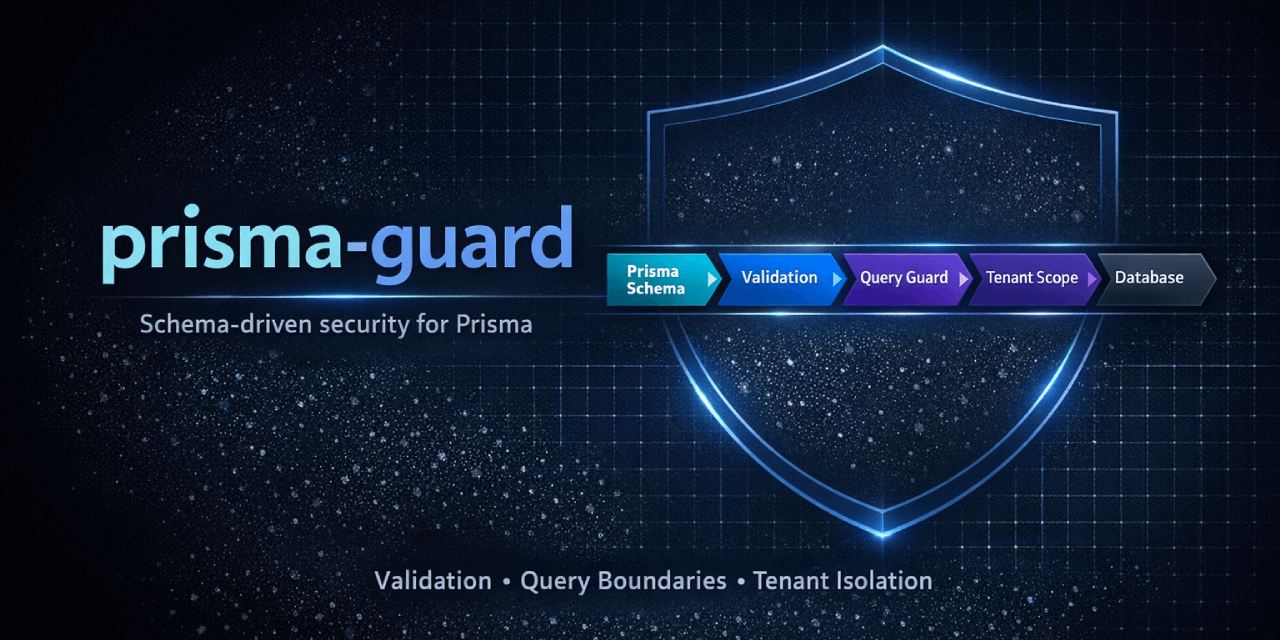
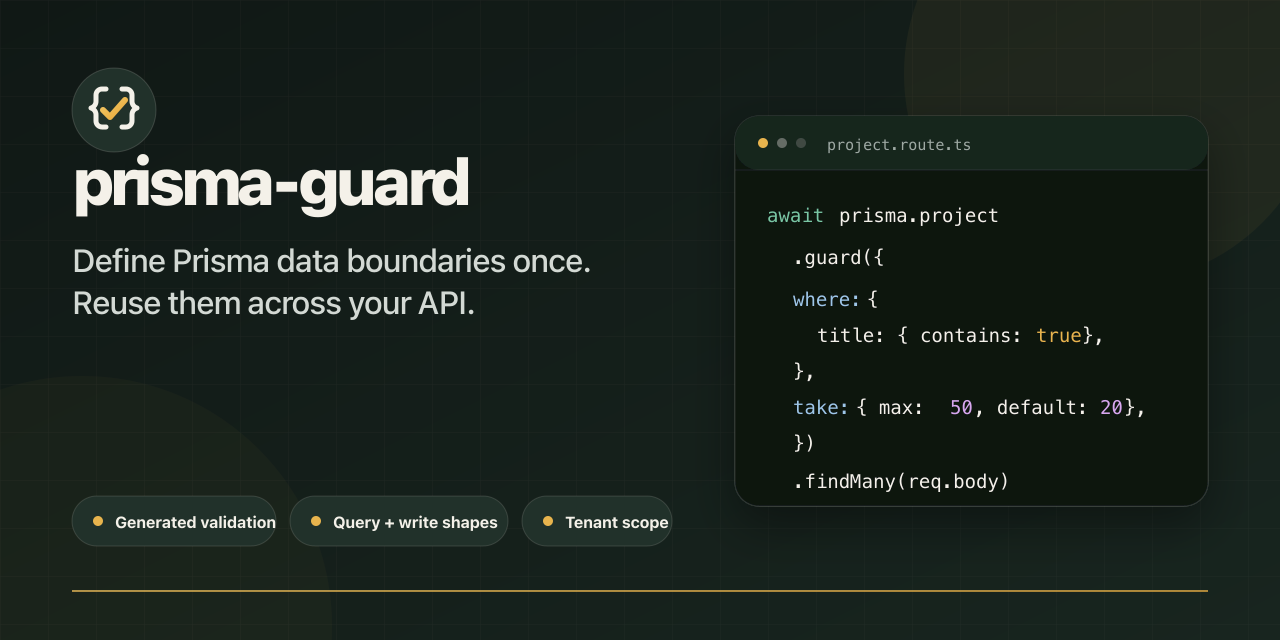
docs: polish repository branding

diff --git a/README.md b/README.md
@@ -1,31 +1,35 @@
-# prisma-guard
+<p align="center">
+  <img src="./docs/assets/prisma-guard-mark.svg" width="104" height="104" alt="prisma-guard data boundary mark">
+</p>
 
-**Schema-driven security layer for Prisma**
-Generate input validation, query shape enforcement, and tenant isolation directly from your Prisma schema.
+<h1 align="center">prisma-guard</h1>
 
-[![npm version](https://img.shields.io/npm/v/prisma-guard)](https://www.npmjs.com/package/prisma-guard)
-[![license](https://img.shields.io/npm/l/prisma-guard)](./LICENSE)
-[![node](https://img.shields.io/node/v/prisma-guard)](./package.json)
-[![prisma](https://img.shields.io/badge/Prisma-6%20%7C%207-2D3748)](https://www.prisma.io/)
-[![zod](https://img.shields.io/badge/Zod-v4-3E67B1)](https://zod.dev/)
-[![codecov](https://codecov.io/gh/multipliedtwice/prisma-guard/graph/badge.svg?token=X3Y0CSLTCM)](https://codecov.io/gh/multipliedtwice/prisma-guard)
+<p align="center"><strong>Define Prisma data boundaries once. Reuse them across your API.</strong></p>
 
-`prisma-guard` helps prevent three common classes of backend mistakes:
+<p align="center">
+  Generated input validation and explicit query shapes keep allowed fields, response projection, and tenant scope in the Prisma call chain.
+</p>
 
-* **invalid input** reaching Prisma
-* **unsafe or overly broad query shapes**
-* **missing tenant filters** in multi-tenant systems
-```text
-client request
-      ↓
-.guard(shape)
-      ↓
-validated input + allowed query shape
-      ↓
-tenant scoped query
-      ↓
-database
-```
+<p align="center">
+  <a href="https://www.npmjs.com/package/prisma-guard"><img src="https://img.shields.io/npm/v/prisma-guard?logo=npm&amp;label=npm" alt="npm version"></a>
+  <a href="https://www.npmjs.com/package/prisma-guard"><img src="https://img.shields.io/npm/dm/prisma-guard?logo=npm&amp;label=downloads" alt="npm downloads"></a>
+  <a href="https://github.com/multipliedtwice/prisma-guard/actions/workflows/ci.yml"><img src="https://github.com/multipliedtwice/prisma-guard/actions/workflows/ci.yml/badge.svg" alt="CI status"></a>
+  <a href="https://codecov.io/gh/multipliedtwice/prisma-guard"><img src="https://codecov.io/gh/multipliedtwice/prisma-guard/graph/badge.svg?token=X3Y0CSLTCM" alt="code coverage"></a>
+  <a href="#license"><img src="https://img.shields.io/npm/l/prisma-guard" alt="license"></a>
+</p>
+
+<p align="center">
+  <a href="https://www.npmjs.com/package/prisma-guard">npm</a> ·
+  <a href="#install">Install</a> ·
+  <a href="#quick-start">Quick start</a> ·
+  <a href="#the-guard-api">Guard API</a> ·
+  <a href="#automatic-tenant-isolation">Tenant scope</a> ·
+  <a href="#limitations">Limitations</a> ·
+  <a href="https://multipliedtwice.github.io/prisma-generator-express/">Field Guide</a> ·
+  <a href="https://github.com/multipliedtwice/prisma-generator-express">Generated APIs</a>
+</p>
+
+`prisma-guard` generates Prisma-aware validation and scope metadata, then enforces the operation shape you declare with `.guard(shape)`. Client input is narrowed before Prisma runs; allowed projections and tenant context stay explicit at the data boundary.
 
 ---
 
